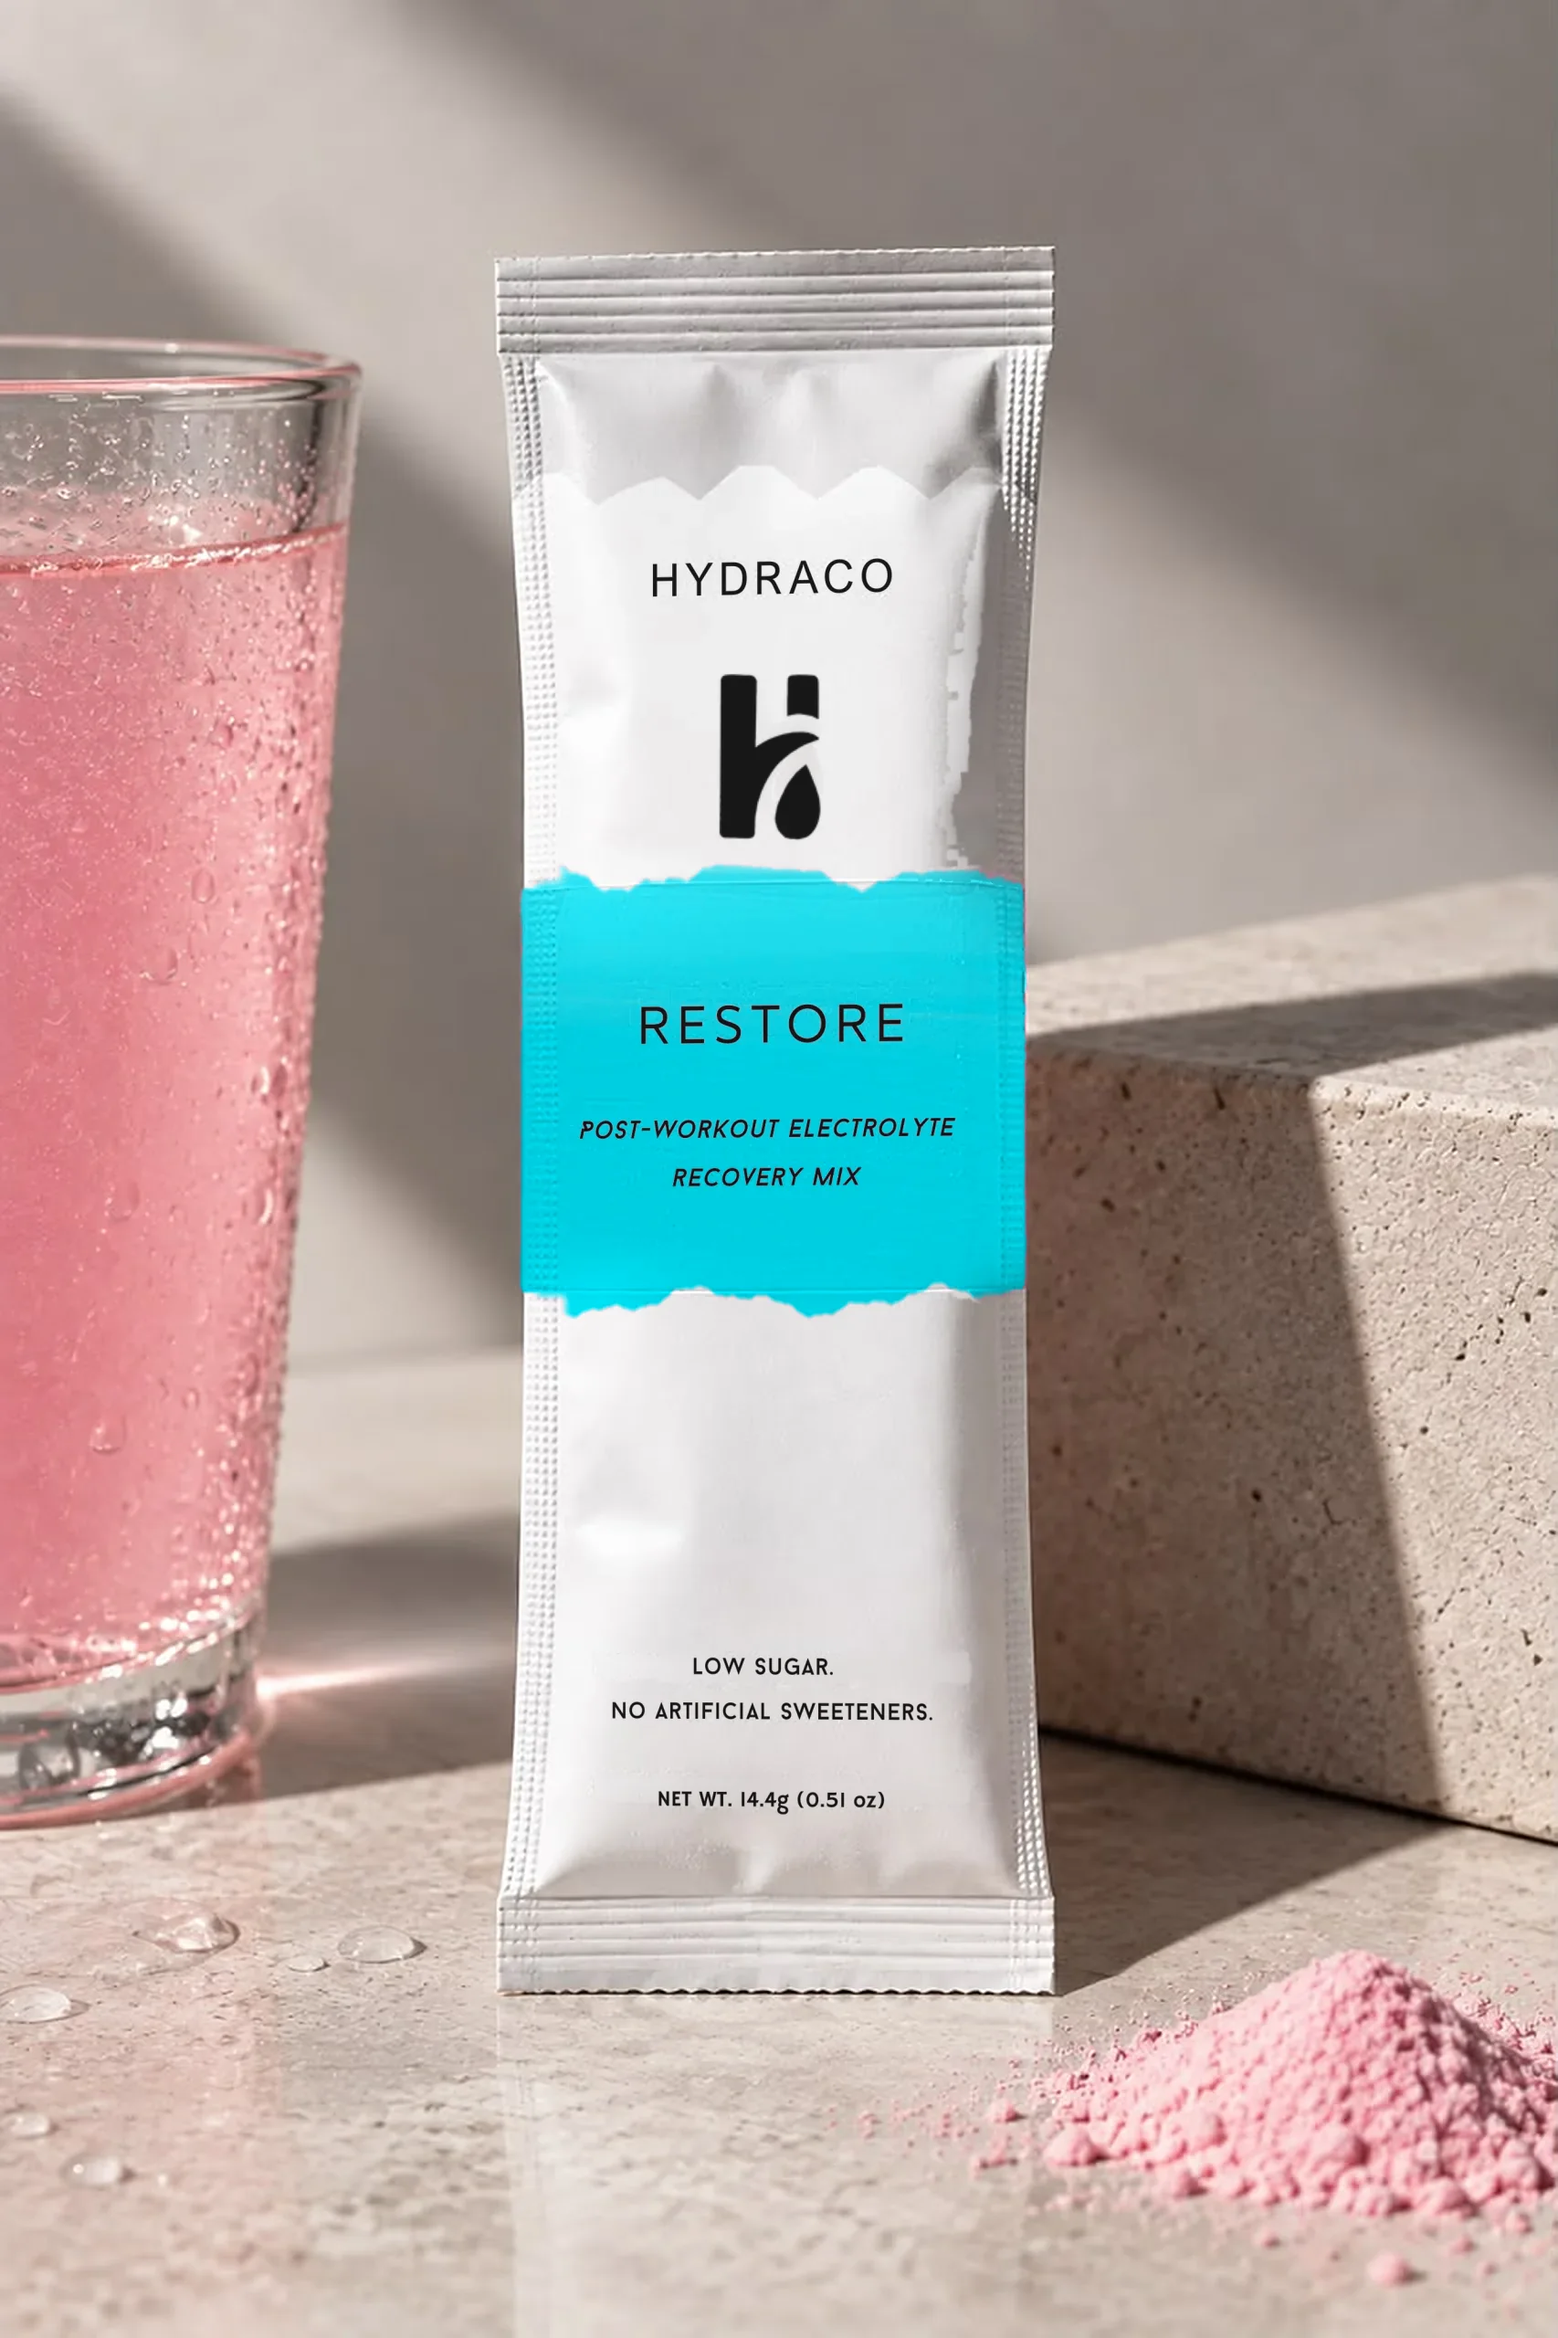
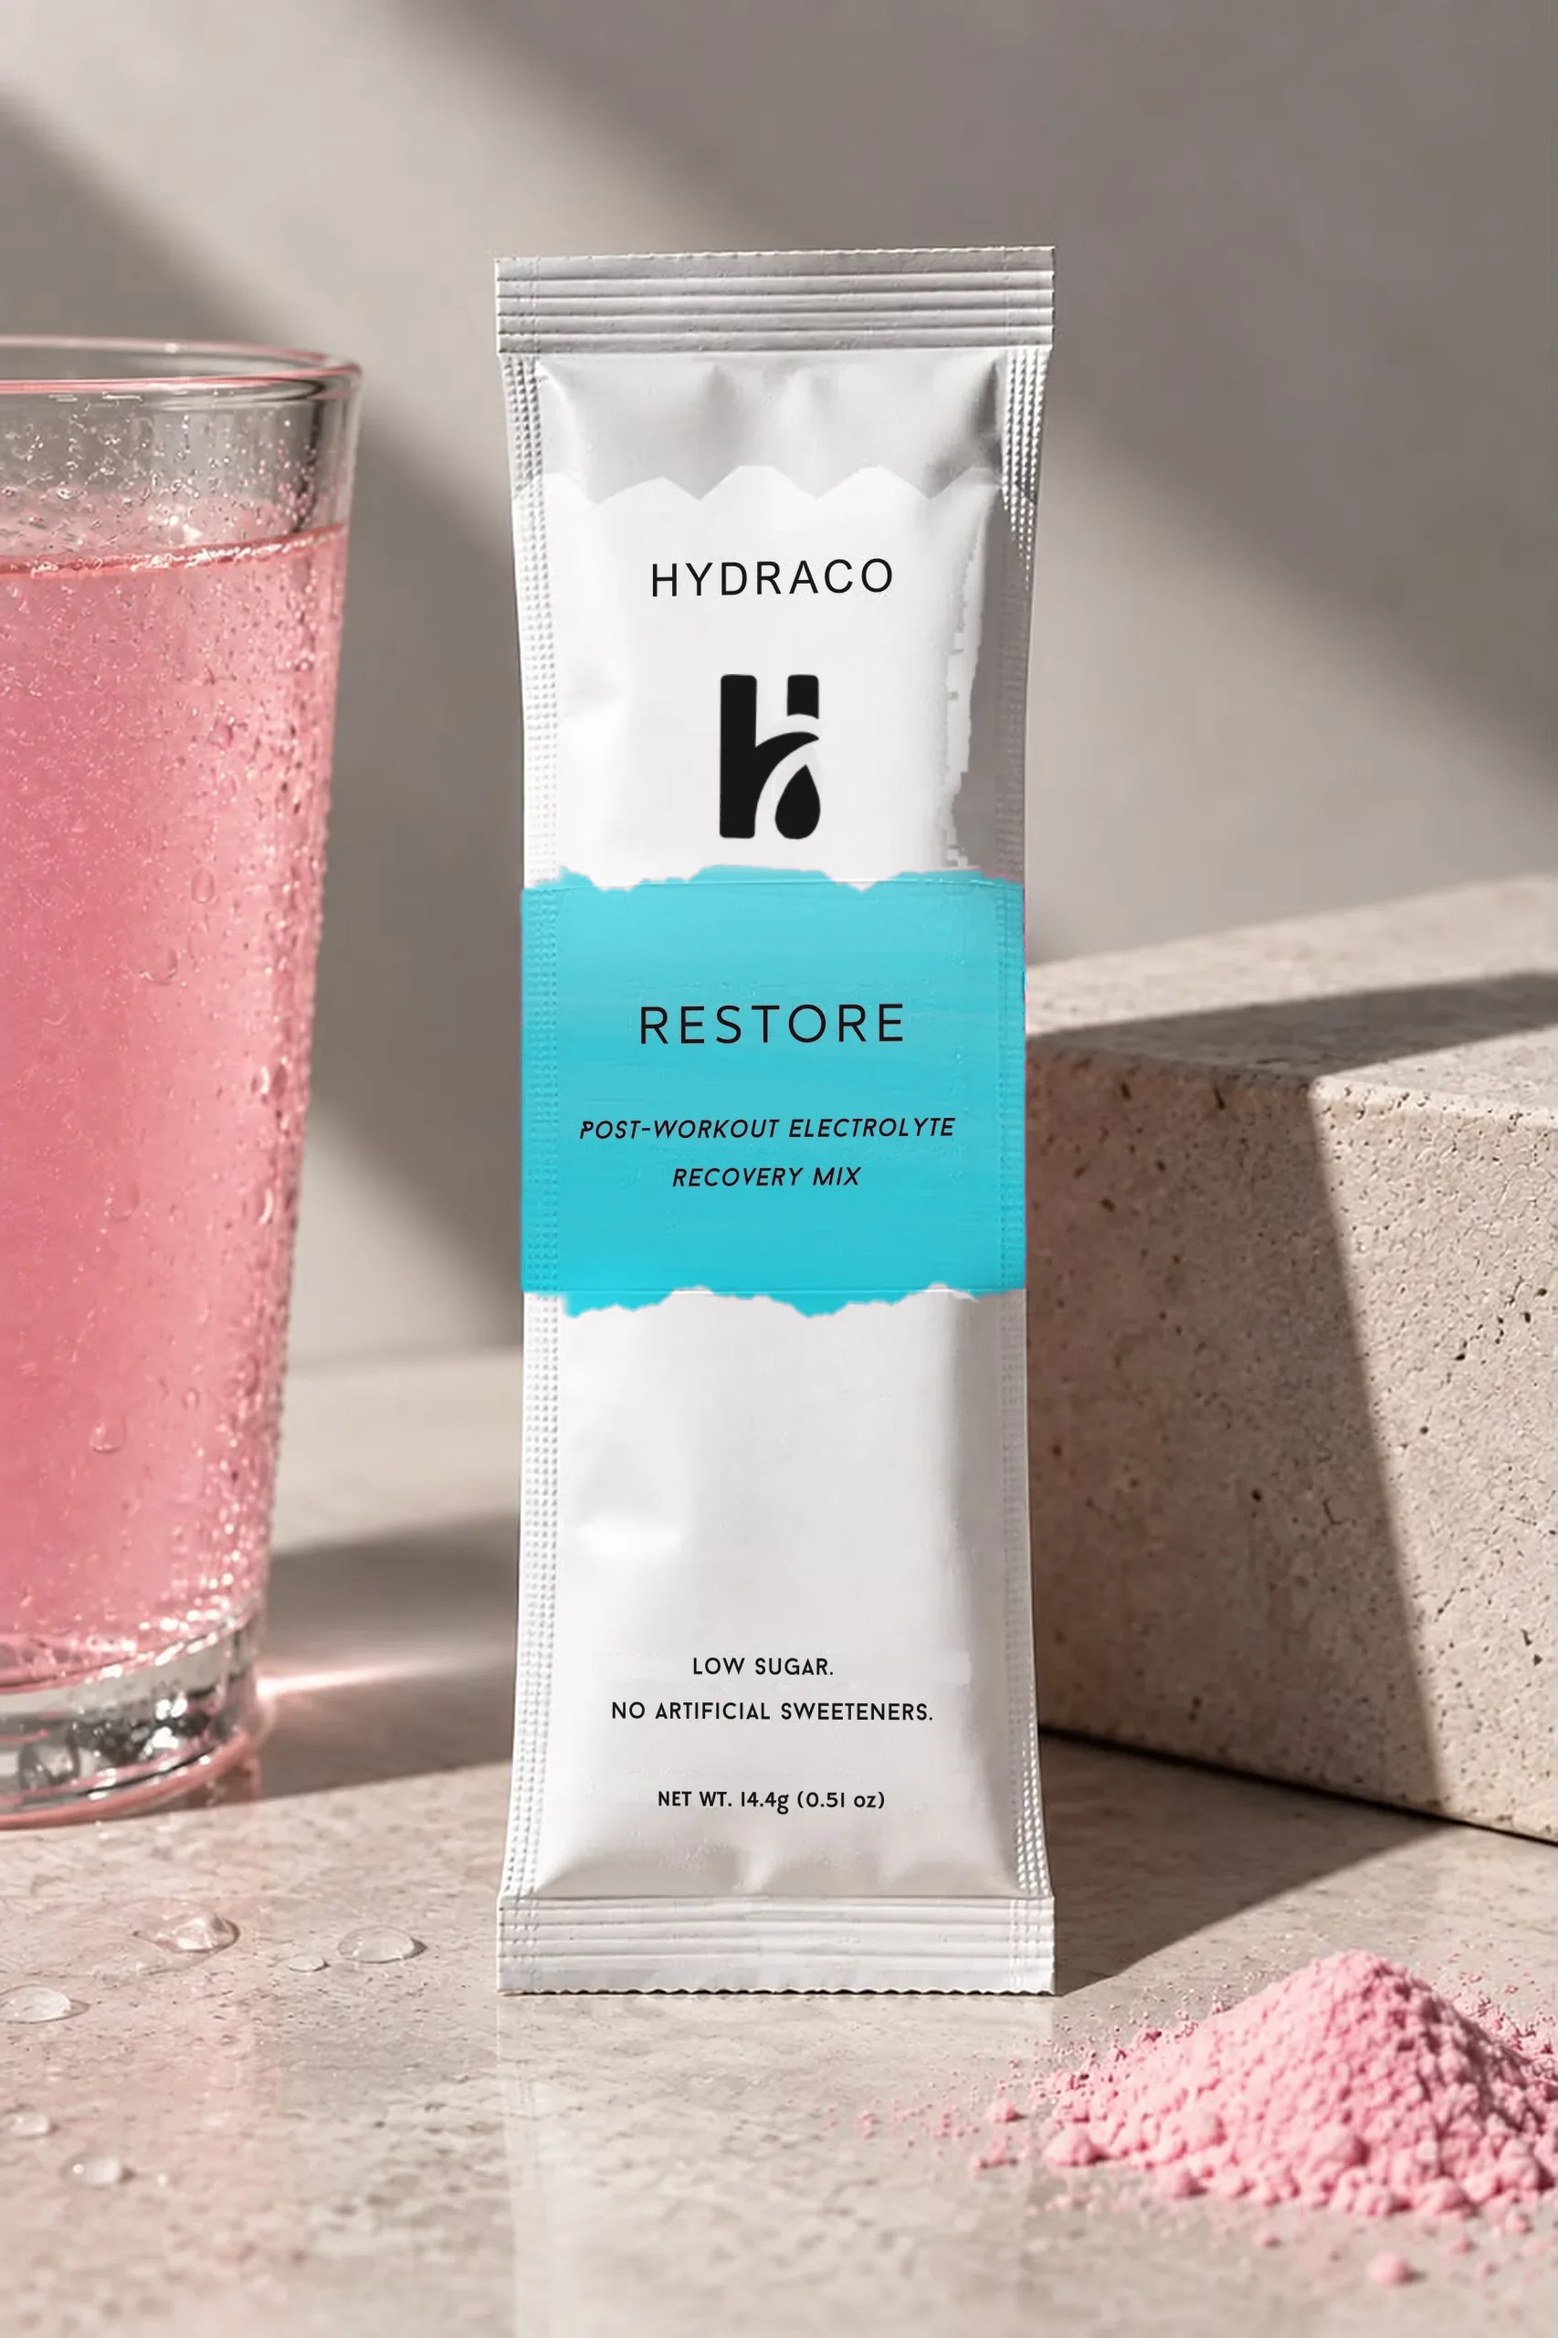
Hydrapro aqua: softer, less saturated

Changed region(s): [[0.3107, 0.3438, 0.6835, 0.5625]]

diff --git a/index.html b/index.html
@@ -1454,20 +1454,20 @@ body.fun-mode .pack-hint.hidden{transform:rotate(-9deg) translateY(-6px)}
 
 /* ---------- Hydrapro mode ----------
    Picking Hydrapro stamps data-product="hydrapro" on <html>: the pink
-   accent becomes Hydrapro's aqua (#02D8E9) everywhere it is used, the
+   accent becomes Hydrapro's aqua (a softened #02D8E9) everywhere it is used, the
    painted brush textures swap to aqua copies, and the script swaps each
    product photo for one with an aqua band on the pack. The drink itself
    stays pink - it is still strawberry lemonade. */
 :root[data-product="hydrapro"]{
-  --pink:#02d8e9;--pink-ink:#007c89;--pink-soft:#8eeaf3;
-  --brush-wide:url('/images/hp/brush-wide.webp?v=hp1');
-  --brush-tag:url('/images/hp/brush-tag.webp?v=hp1');
-  --brush-band:url('/images/hp/brush-band.webp?v=hp1');
+  --pink:#42c4d2;--pink-ink:#00707b;--pink-soft:#a5e1e8;
+  --brush-wide:url('/images/hp/brush-wide.webp?v=hp2');
+  --brush-tag:url('/images/hp/brush-tag.webp?v=hp2');
+  --brush-band:url('/images/hp/brush-band.webp?v=hp2');
 }
 @media (prefers-color-scheme: dark){
-  :root[data-product="hydrapro"]:not([data-theme="light"]){--pink:#02d8e9;--pink-ink:#6fe9f4;--pink-soft:#2fc4d3}
+  :root[data-product="hydrapro"]:not([data-theme="light"]){--pink:#42c4d2;--pink-ink:#7fdfe9;--pink-soft:#2aa3b0}
 }
-:root[data-product="hydrapro"][data-theme="dark"]{--pink:#02d8e9;--pink-ink:#6fe9f4;--pink-soft:#2fc4d3}
+:root[data-product="hydrapro"][data-theme="dark"]{--pink:#42c4d2;--pink-ink:#7fdfe9;--pink-soft:#2aa3b0}
 /* the sketched glass keeps its pink drink in either mode */
 :root[data-product="hydrapro"] #pourArt{--pink:#fb4fc0}
 img[data-photo]{transition:opacity .25s}
@@ -3528,7 +3528,7 @@ const PRODUCT_HERO = {
               lede: "More electrolytes. Over 1 billion CFU of probiotics in every stick." }
 };
 const photoSrc = (name, p) => p === "hydrapro"
-  ? "/images/hp/" + name + ".webp?v=hp1" : "/images/" + name + ".webp?v=pack7";
+  ? "/images/hp/" + name + ".webp?v=hp2" : "/images/" + name + ".webp?v=pack7";
 
 function paintProduct(){
   document.documentElement.dataset.product = product;
